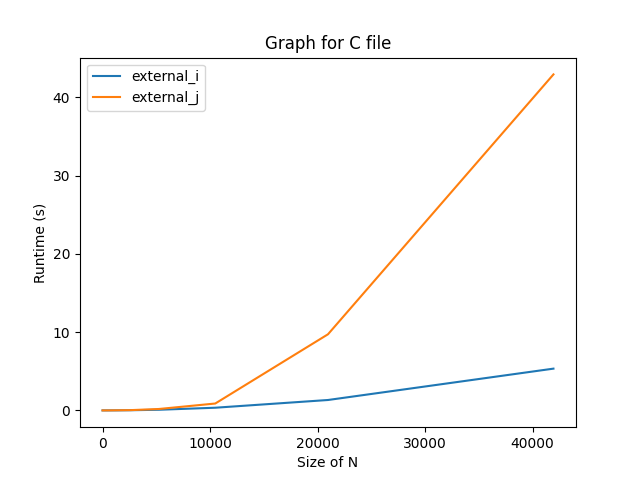
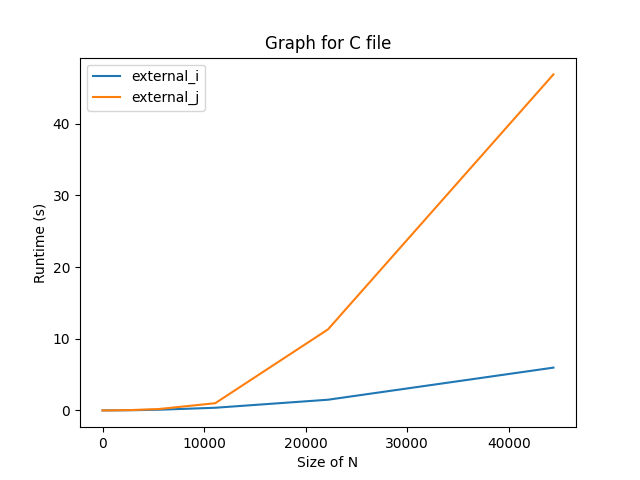
Increasing values

diff --git a/First_Exercise/python_files/values_generator.py b/First_Exercise/python_files/values_generator.py
@@ -4,7 +4,7 @@ import sys
 def generate_power_values(n: int = 42000) -> None:
     result = []
     for i in range(0, n+1):
-        power = int((2**i)*1.28)
+        power = int((2**i)*1.355)
         if(power > n):
             break
 
